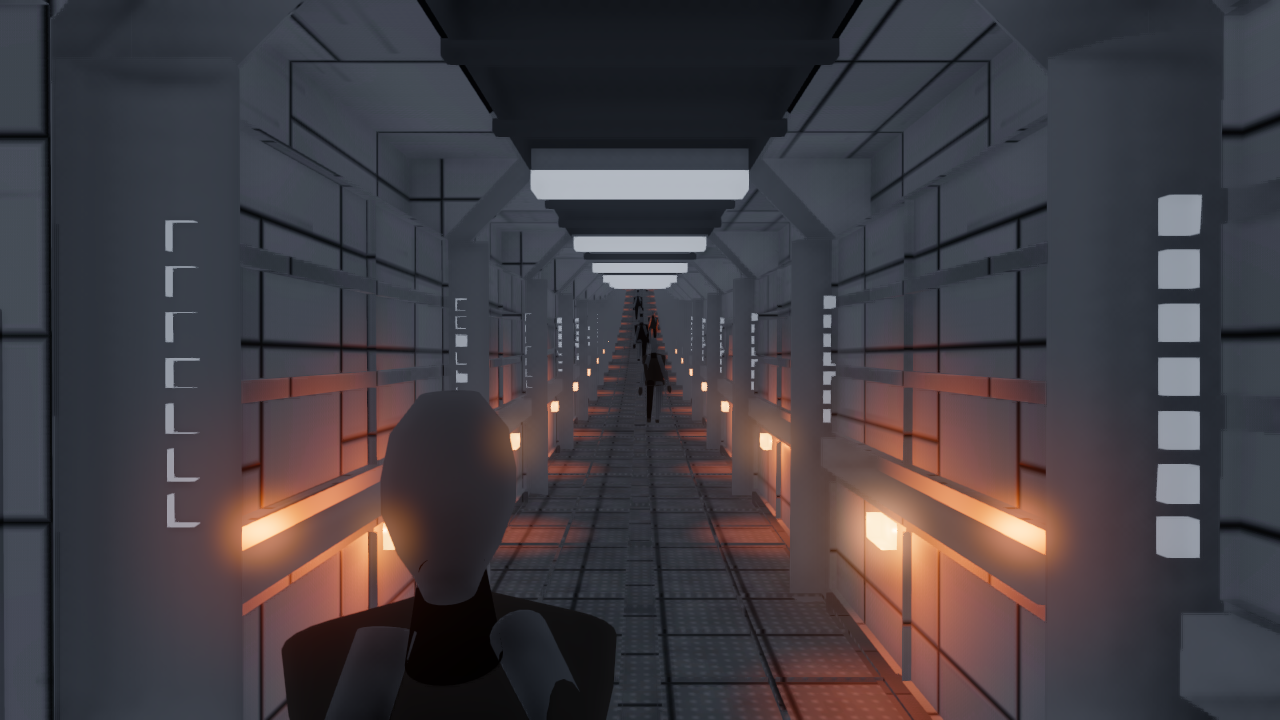
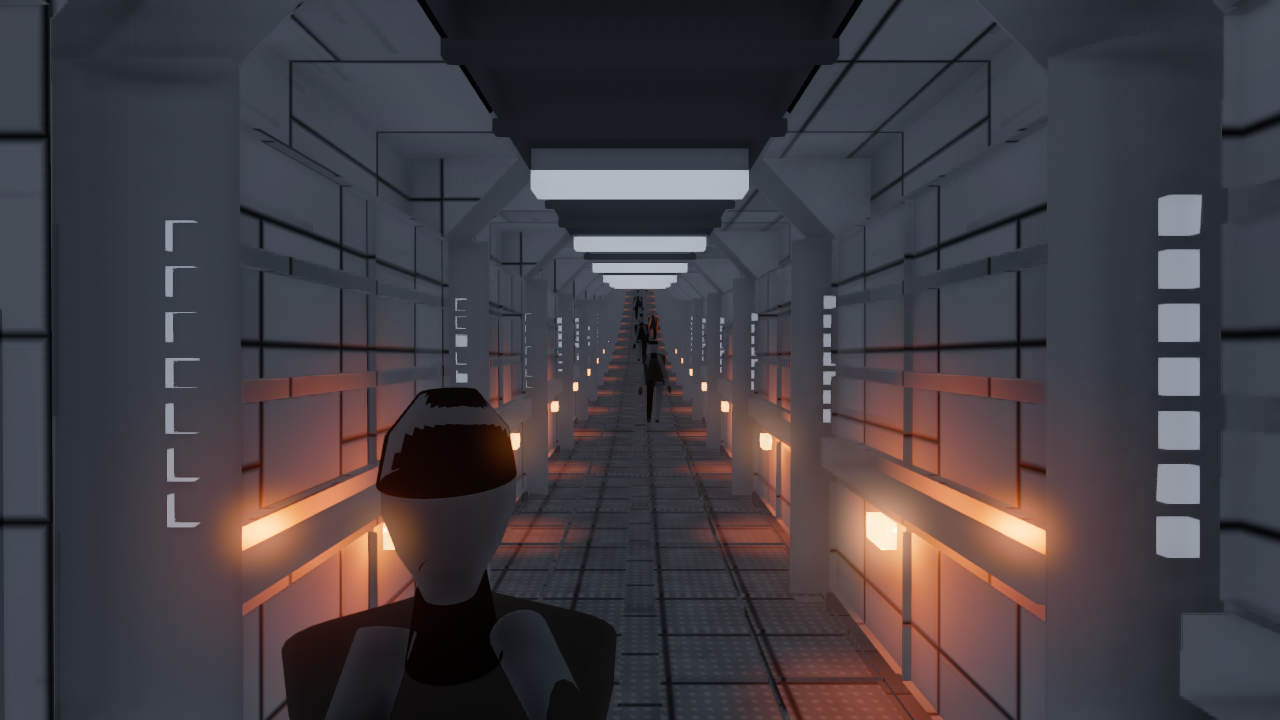
crowd: every walker on the station was bald, for 188 triangles
body.lod_chain() drops the `detail` tier -- hair and brow -- at level 2, and
levels 1 and 2 have IDENTICAL tessellation (32 segments, stride 1). They differ
only in whether a head has hair on it. The crowd ladder's nearest rung was
level 2, so all 963 people walking the station were bald at every distance
while the 21 baked cast members were not, because they build finer.

The selection rule was "the level whose triangle count is nearest the band's
allowance", and for the 6-18 m band that allowance is 2,000. The chain offers
1,012 (no hair, 49% under), 2,068 (no hair, 3.4% OVER) and 2,256 (hair, 12.8%
over). It picked 2,068 -- over the allowance AND faceless, the worst of the
three. A nearest-count rule compares two numbers and neither of them is a face.

It is now feature-aware: if a tier is still resolvable at the band's far edge,
take the cheapest level that keeps it, provided that costs no more than
FEATURE_OVER_TOL (1.15) over the allowance. At 45 m the cheapest level with
hair is x3.76 the allowance and is correctly refused, so the middle and far
rungs are unchanged.

"Still resolvable" is measured, not written down. body.tier_alias_m builds the
figure, takes the tier's own geometry and returns aliases_beyond_m of its
smallest dimension: hair aliases beyond 143.2 m, eight times past the near
band's 18 m. The first two probes returned 166 m and 153 m for the same feature
because individual() varies a body by its id and they were two different
[…]

Changed region(s): [[0.2812, 0.5194, 0.4062, 0.7028]]

diff --git a/station/populace.py b/station/populace.py
@@ -816,6 +816,34 @@ def corridor_sight_m(radius_m, width_m):
     return math.sqrt(8.0 * max(1e-9, radius_m) * max(1e-9, width_m))
 
 
+# How far over a band's per-body triangle allowance a level may go to keep a
+# feature tier that is still resolvable at that band's far edge.
+#
+# NOT A ROUND NUMBER PICKED TO ADMIT THE ANSWER I WANTED, and the arithmetic is
+# all measured. The 6-18 m band allows 2,000 triangles a body. This chain
+# offers 1,012 (no hair, 49% under), 2,068 (no hair, 3.4% OVER) and 2,256
+# (hair, 12.8% over) -- and the nearest-count rule shipped the middle one,
+# which is the worst of the three: over the allowance AND faceless. 1.15
+# admits 2,256 and refuses the 45 m band's x3.76, which is the whole job.
+#
+# WHAT IT COSTS, measured rather than asserted: the shared library is 112
+# bodies (14 species x 8 phases), so +188 triangles a body is **+21,056
+# resident**, and the band holds 20 agents, so **+3,760 drawn** in a frame that
+# already carries 657,880. CLAUDE.md's own rule applies -- "the triangle budget
+# is a TARGET, not a ceiling. 83% headroom sat unspent for sessions because the
+# gate only ever said 'under budget, pass'."
+FEATURE_OVER_TOL = 1.15
+
+
+@_lru_cache(maxsize=1)
+def _detail_alias_m():
+    """How far away hair stops being resolvable. Measured, cached once.
+
+    Cached because it builds a figure, and `crowd_ladder` is called per deck.
+    """
+    return _body.tier_alias_m("detail")
+
+
 @_lru_cache(maxsize=1)
 def crowd_ladder():
     """`((max_distance_m, chain_lod), ...)` for the shipped crowd, nearest first.
@@ -838,9 +866,33 @@ def crowd_ladder():
     altogether.
     """
     counts = _lod_triangles()
+    chain = _body.lod_chain()
+    detail_m = _detail_alias_m()
     out = []
     for _name, _lo, hi, tri, _n in _sched.NPC_BUDGET["lod"]:
         lod = min(range(len(counts)), key=lambda i: abs(counts[i] - tri))
+        # -- A NEAREST-COUNT RULE CANNOT SEE A FACE ------------------------
+        # It picked level 2 for the 6-18 m band: 2,068 triangles against an
+        # allowance of 2,000, so ALREADY 3.4% over -- and level 2 is the first
+        # rung of the chain to drop the `detail` tier, which is the hair. Level
+        # 1 has identical tessellation (32 segments, stride 1), keeps the hair,
+        # and costs 2,256: 9% more triangles than the rung that was chosen, and
+        # the difference between a head and an egg.
+        #
+        # So: if the tier is still resolvable at this band's FAR edge, take the
+        # cheapest level that keeps it, provided that costs no more than
+        # `FEATURE_OVER_TOL` over the allowance. `body.tier_alias_m` measures
+        # the hair off the built mesh, over a sample of individuals and taking
+        # the smallest, and puts it under the shading rate only beyond
+        # **143.2 m** -- eight times past this band's 18 m far edge. At 45 m the
+        # cheapest level with hair is x3.76 the allowance and is correctly
+        # refused, so the middle and far rungs are unchanged.
+        if hi <= detail_m:
+            keep = [i for i, lv in enumerate(chain)
+                    if lv["features"] == "all"
+                    and counts[i] <= tri * FEATURE_OVER_TOL]
+            if keep:
+                lod = max(keep, key=lambda i: -counts[i])
         out.append((float(hi), lod))
     # Collapse the near band into the next one out -- see the note above -- and
     # drop any band that resolves to the same level as its neighbour, so the
@@ -1771,6 +1823,46 @@ def _selftest():
         else:
             fail += 1
             print(f"FAIL  {name}  -- {detail}")
+
+    # -- THE PERSON A METRE FROM YOUR EYE HAS A FACE -----------------------
+    # Every walker on the station was bald until session 4k, and no gate could
+    # say so: the ladder's rungs were checked against a triangle allowance and
+    # nothing checked what was IN them. `no_detail` is the tier that holds the
+    # hair and the brow, and the nearest rung had already dropped it.
+    _chain, _counts = _body.lod_chain(), _lod_triangles()
+    _near_hi, _near = crowd_ladder()[0]
+    check("the crowd's nearest rung keeps the features it can still resolve",
+          _chain[_near]["features"] == "all",
+          f"rung <= {_near_hi:g} m is level {_near} with "
+          f"features={_chain[_near]['features']}, and hair is resolvable to "
+          f"{_detail_alias_m():.0f} m")
+    check("...and the tier's range is measured, not written down",
+          _detail_alias_m() > _near_hi,
+          f"hair aliases beyond {_detail_alias_m():.1f} m, rung reaches "
+          f"{_near_hi:g} m")
+    # THE CONTROL. With no tolerance over the allowance the rule cannot afford
+    # the tier and falls back to the nearest-count pick -- which is level 2,
+    # the faceless one that shipped for five sessions. If this does not change,
+    # the assertion above is passing for some other reason.
+    global FEATURE_OVER_TOL
+    _tol = FEATURE_OVER_TOL
+    try:
+        FEATURE_OVER_TOL = 1.0
+        crowd_ladder.cache_clear()
+        _ctl = crowd_ladder()[0][1]
+    finally:
+        FEATURE_OVER_TOL = _tol
+        crowd_ladder.cache_clear()
+    check("control: with no tolerance the near rung loses its face",
+          _chain[_ctl]["features"] != "all" and _ctl != _near,
+          f"control picked level {_ctl} "
+          f"(features={_chain[_ctl]['features']}), subject picked {_near}")
+    # And the cost of it, stated rather than left to be discovered.
+    _lib = len(_sched.STATION_MIX) * CROWD_PHASES
+    print(f"      crowd near rung: level {_near}, {_counts[_near]:,} tri/body, "
+          f"library {_lib} bodies = {_lib * _counts[_near]:,} triangles "
+          f"({_lib * (_counts[_near] - _counts[_ctl]):+,} against the "
+          f"faceless rung)")
 
     import dressing as D
     dv, dt, dg, _dc = D.dress("t", 6.0, 9.0, 2.9, "office")

diff --git a/station/npc/body.py b/station/npc/body.py
@@ -1493,6 +1493,47 @@ SUBPIXEL_FIGURE_M = aliases_beyond_m(FIGURE_WIDTH_M)
 IMPOSTOR_VIEWS = 8
 
 
+def tier_alias_m(tier, species="human", sample=8):
+    """Distance beyond which a feature TIER stops being resolvable. Measured.
+
+    Builds the figure with every feature present, takes the geometry belonging
+    to that tier, and returns `aliases_beyond_m` of its SMALLEST dimension --
+    the smallest is what falls under the shading rate first.
+
+    OVER A SAMPLE OF INDIVIDUALS, TAKING THE SMALLEST, because `individual()`
+    varies a body by its id and the first two probes written for this returned
+    166 m and 153 m for the same feature on two different people. A number that
+    depends on which name you happened to type is not a measurement. The
+    smallest head in the sample is the one whose hair aliases first, so it is
+    the one the answer has to hold for.
+
+    NOT A WRITTEN-DOWN NUMBER either way. The hair cap's size is a property of
+    `_f_hair` and the crest's of `_f_centauri_crest`; a constant here would be
+    a second copy of a computed value and would drift the first time either
+    changes. `populace.crowd_ladder` calls this to decide whether a distance
+    band can afford to drop a tier.
+    """
+    keys = [k for k, t in FEATURE_TIER.items() if t == tier]
+    if not keys:
+        raise KeyError(f"no features in tier {tier!r}")
+    chain = lod_chain()
+    lvl = next((i for i, lv in enumerate(chain) if lv["features"] == "all"), 0)
+    worst = None
+    for n in range(max(1, sample)):
+        v, t, g = build(species, f"tier-probe-{n}", lod=lvl, chain=chain)
+        idx = set()
+        for name, lo, hi in g:
+            if any(k in name for k in keys):
+                for tri in t[lo:hi]:
+                    idx.update(tri)
+        if not idx:
+            continue
+        span = min(max(v[k][ax] for k in idx) - min(v[k][ax] for k in idx)
+                   for ax in (0, 1, 2))
+        worst = span if worst is None else min(worst, span)
+    return 0.0 if worst is None else aliases_beyond_m(worst)
+
+
 def _feature_filter(level):
     if level == "all":
         return set(FEATURE_TIER) | {"hands", "feet"}

diff --git a/STATE.md b/STATE.md
@@ -1,6 +1,97 @@
 # Project State
 
-**Last updated:** 2026-08-02 · **Session 4j** — **the 21 exposure frames describe the code again, and the verdict did not move** · **4i** — **every curved surface in the project was flat-shaded, and the crease angle is measured off the station** · **4h** — **IT IS PLAYABLE: press Play and you are standing in Blue Sector** · **4g** — **the Babcom terminal is a built device, and it shipped a logged mistake once before the log caught it** · **4f** — a per-token verb override · **4e** — **the naming-mismatch class is CLOSED: built-but-misnamed 26 → 0, resolving 302/357** · **4d** — **the bespoke rooms' interactables were never unbuilt, they were unnamed: 259/357 → 284/357** · **4c** — **the station is INTERACTABLE, the port is on a wall, and the 24-minute suites were one bad cache key** · **4b** — a police force, friction in metres, the plated shell, the fitting-reach fix
+**Last updated:** 2026-08-02 · **Session 4k** — **every walker on the station was bald, for 188 triangles** · **4j** — **the 21 exposure frames describe the code again, and the verdict did not move** · **4i** — **every curved surface in the project was flat-shaded, and the crease angle is measured off the station** · **4h** — **IT IS PLAYABLE: press Play and you are standing in Blue Sector** · **4g** — **the Babcom terminal is a built device, and it shipped a logged mistake once before the log caught it** · **4f** — a per-token verb override · **4e** — **the naming-mismatch class is CLOSED: built-but-misnamed 26 → 0, resolving 302/357** · **4d** — **the bespoke rooms' interactables were never unbuilt, they were unnamed: 259/357 → 284/357** · **4c** — **the station is INTERACTABLE, the port is on a wall, and the 24-minute suites were one bad cache key** · **4b** — a police force, friction in metres, the plated shell, the fitting-reach fix
+
+## Session 4k — EVERY WALKER ON THE STATION WAS BALD, FOR 188 TRIANGLES
+
+### 1. The LOD chain drops hair at level 2, and level 2 is what the crowd shipped
+
+`body.lod_chain()`'s feature schedule, printed rather than remembered:
+
+| level | segments | stride | features | triangles |
+|---|---|---|---|---|
+| 0 | 64 | 1 | **all** | 4,560 |
+| 1 | 32 | 1 | **all** | 2,256 |
+| 2 | 32 | 1 | `no_detail` | 2,068 |
+| 3 | 16 | 1 | `no_detail` | 1,012 |
+
+**Levels 1 and 2 have identical tessellation.** They differ in one thing: whether the `detail`
+tier — the hair and the brow — exists. The shipped crowd ladder's nearest rung was level 2, so
+every one of the 963 people walking the station was bald at every distance, and the 21 baked cast
+members were not, because they build at a finer level. Two descriptions of a person, disagreeing.
+
+### 2. The selection rule was blind, and its pick was the worst of three
+
+`crowd_ladder` chose "the level whose measured triangle count is nearest the band's allowance". For
+the 6–18 m band, allowance **2,000**:
+
+| level | triangles | vs allowance | hair |
+|---|---|---|---|
+| 3 | 1,012 | −49% | no |
+| **2 (chosen)** | **2,068** | **+3.4% OVER** | **no** |
+| 1 | 2,256 | +12.8% over | **yes** |
+
+It picked the one that is *over the allowance and faceless*. A nearest-count rule cannot see a
+face; it compares two numbers and neither of them is the head.
+
+The rule is now feature-aware: **if a tier is still resolvable at the band's far edge, take the
+cheapest level that keeps it, provided that costs no more than `FEATURE_OVER_TOL` (1.15) over the
+allowance.** The middle and far rungs are unchanged — at 45 m the cheapest level with hair is ×3.76
+the allowance and is correctly refused.
+
+### 3. "Still resolvable" is MEASURED, and the first measurement was not reproducible
+
+`body.tier_alias_m(tier)` builds the figure, takes the geometry belonging to that tier, and returns
+`aliases_beyond_m` of its smallest dimension. **Hair aliases beyond 143.2 m** — eight times past
+the near band's 18 m far edge. A constant here would be a second copy of a value that lives in
+`_f_hair`, and would drift the first time the cap changes.
+
+The first two probes for this returned **166 m and 153 m for the same feature**, because
+`individual()` varies a body by its id and they were two different people. A number that depends on
+which name you happened to type is not a measurement. It now samples eight individuals and takes
+the **smallest** — the smallest head is the one whose hair aliases first — and converges at 143.2 m
+from a sample of four onward.
+
+### 4. What it costs, measured
+
+The shared library is 112 bodies (14 species × 8 phases): **231,616 → 252,672 triangles resident,
++21,056, +9.1%.** The band holds 20 agents, so **+3,760 drawn** in a frame that already carries
+657,880. CLAUDE.md's own rule governs: *"the triangle budget is a TARGET, not a ceiling. 83%
+headroom sat unspent for sessions because the gate only ever said 'under budget, pass'."*
+
+### 5. Gates
+
+| gate | result |
+|---|---|
+| `station/populace.py` | **73/73**, and the new assertion names the rung and its cost |
+| control: `FEATURE_OVER_TOL = 1.0` | fires — the near rung falls back to level 2, faceless |
+| `walkable.py --deck blue/0/0 --use` | **PASS** + **PASS**, both controls firing; ladder now reads `LOD 1:3/4:5/8:126` |
+| `tools/play.sh --verify` | **PLAYABLE** — stood 112/112 reports to 224 s, 0.043 m from spawn, peak speed 0.000 m/s |
+
+### 6. WHAT THE FRAME SHOWS, INCLUDING WHAT IT DOES NOT FIX
+
+`docs/engine-playable-eye.png` at 4×: the near figure has a dark hair cap with a clear hairline
+where there was a bare egg. **The crown silhouette is visibly faceted** — a 32-segment lathe across
+a 0.17 m head is 0.017 m a facet, resolvable to roughly 24 m, and this figure is about 1 m away.
+
+That is **the documented cost of a compromise already recorded in `crowd_ladder`**, not a new
+defect: `NPC_BUDGET` has a 0–6 m band allowing 8,000 triangles, and the ladder collapses it into
+the 6–18 m rung because shipping level 0 to a shared library means 14 × 8 × 4,560 = **510,720
+triangles resident** to draw the four agents that band ever holds. What would overturn it is stated
+there too — a runtime that can skin a body per frame, which would make the library unnecessary.
+
+**A hypothesis I checked and refuted rather than shipped:** the stepped hairline looked like the
+open-ended loft this project has shipped three times (`dressing._cyl`, `plant_pipe`,
+`plant_conduit`). `interior.boundary_edges` on the hair span alone: **0 open, 0 non-manifold.** The
+cap is closed. The figure's 61 non-manifold edges are all at the feet and hands, where separate
+solids butt flush.
+
+### 7. NEXT
+
+- The near figure's silhouette is 32-gon faceted at 1 m. Either ship level 0 to a *small* library
+  (the species actually present on a deck, not all 14) or skin at runtime.
+- The two `DECK` rows in `EXPOSURE_FRAMES` still record no shot and cannot be re-taken.
+- `tools/play.sh` still builds one cluster.
 
 ## Session 4j — THE 21 EXPOSURE FRAMES NOW DESCRIBE THE CODE AGAIN, AND THE VERDICT DID NOT MOVE
 
